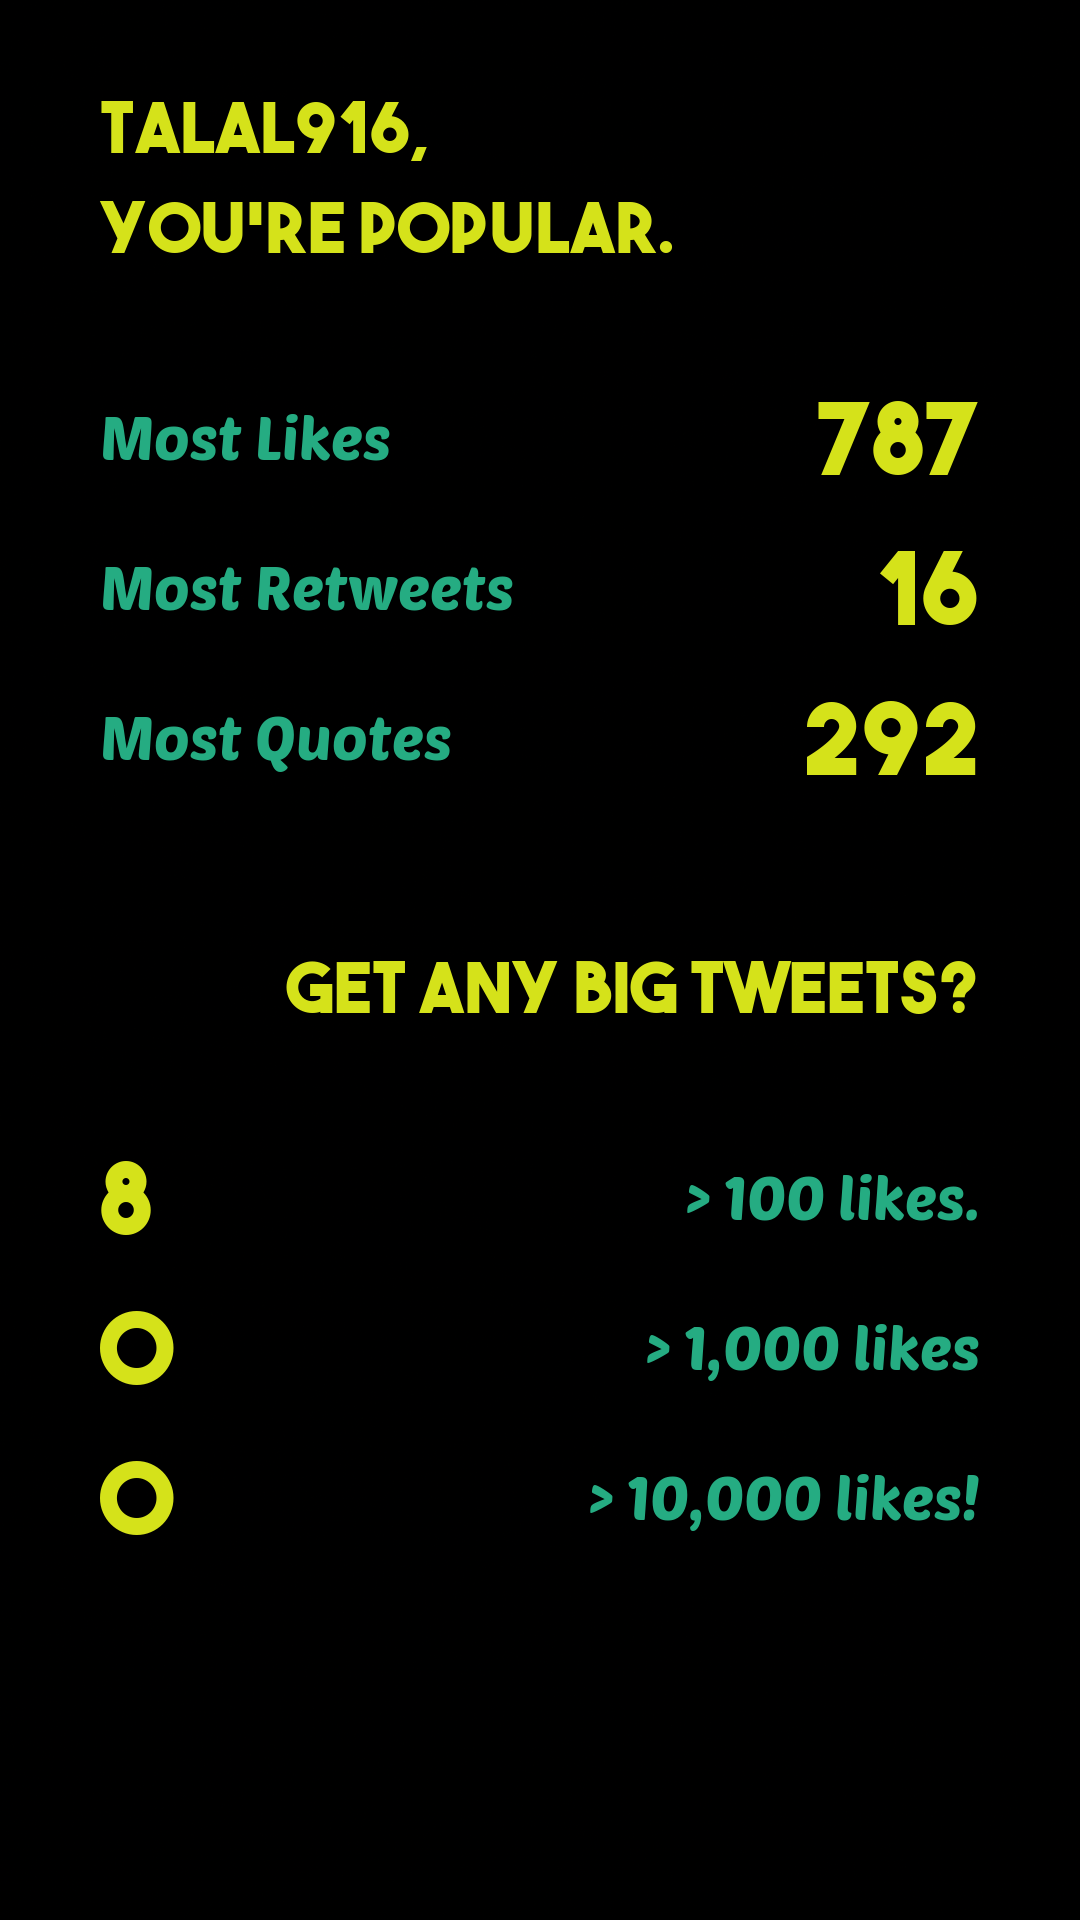
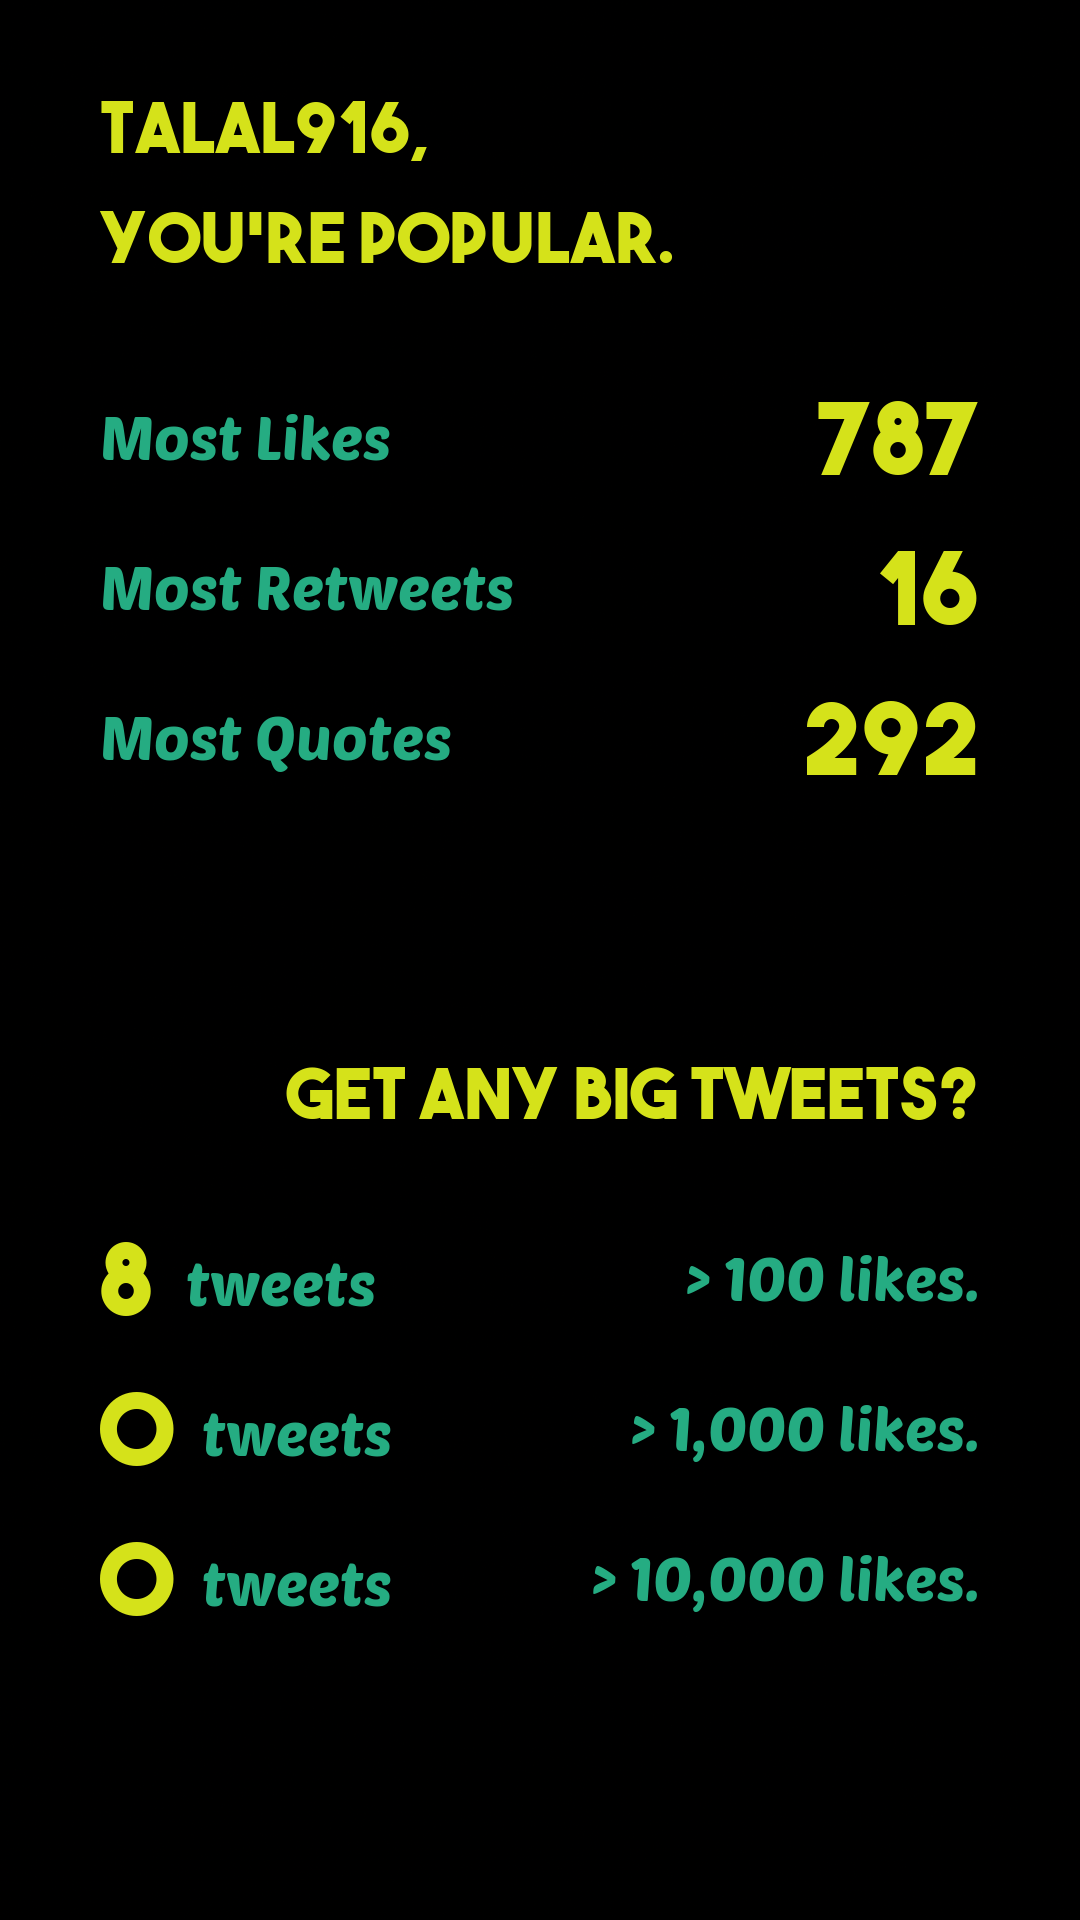
Add additional label

Changed region(s): [[0.2444, 0.5, 0.9167, 0.8438], [0.0917, 0.5938, 0.3667, 0.8438], [0.0917, 0.0938, 0.6417, 0.1562]]

diff --git a/tweepy_twitter.py b/tweepy_twitter.py
@@ -307,13 +307,14 @@ def generate_image_two(username,
     
     lp_title_text = ["Get Any Big Tweets?"] # LP = 'likes performance'
     
-    lp_text = ["> 100 likes.", "> 1,000 likes", "> 10,000 likes!"]
+    lp_text = [ "> 100 likes.", "> 1,000 likes.", "> 10,000 likes."]
     lp_values = [str(likes_performance[100]), str(likes_performance[1000]), str(likes_performance[10000])]
+    lp_values_additional_text = ["tweets"]
     #lp_values = [str(likes_performance[100]) + " Tweets", str(likes_performance[1000]) + " Tweets", str(likes_performance[10000]) + " Tweets"]
   
     # Draw title
     draw.text((x_pos, y_pos), title_text[0], font_colour["title"], font = font["title"])
-    draw.text((x_pos, y_pos + spacer), title_text[1], font_colour["title"], font = font["title"])
+    draw.text((x_pos, y_pos + spacer*1.1), title_text[1], font_colour["title"], font = font["title"])
     
     # Draw metric text
     draw.text((x_pos, y_pos + spacer*3), metrics_text[0], font_colour["text"], font = font["text"])
@@ -339,41 +340,43 @@ def generate_image_two(username,
     # Right align
     title_width, title_height = font["title"].getsize(lp_title_text[0])
     temp_x_pos = image_width - x_pos - title_width
-    
-    # Draw title
-    draw.text((temp_x_pos, image_height/2), lp_title_text[0], font_colour["title"], font = font["title"])
-    
+        
     # Width to right align
     txt_width_0, txt_height_0 = font["text"].getsize(lp_text[0])
     txt_width_1, txt_height_1 = font["text"].getsize(lp_text[1])
     txt_width_2, txt_height_2 = font["text"].getsize(lp_text[2])
     
     # Move base-level y-pos down
-    y_pos = image_height/2
+    y_pos = image_height/1.8
+    
+    # Draw title
+    draw.text((temp_x_pos, y_pos), lp_title_text[0], font_colour["title"], font = font["title"])
     
     # Draw lp text
     temp_x_pos = image_width - x_pos - txt_width_0
-    draw.text((temp_x_pos, y_pos + spacer*2), lp_text[0], font_colour["text"], font = font["text"])
+    draw.text((temp_x_pos, y_pos + spacer*1.75), lp_text[0], font_colour["text"], font = font["text"])
     
     temp_x_pos = image_width - x_pos - txt_width_1
-    draw.text((temp_x_pos, y_pos + spacer*3.5), lp_text[1], font_colour["text"], font = font["text"])
+    draw.text((temp_x_pos, y_pos + spacer*3.25), lp_text[1], font_colour["text"], font = font["text"])
     
     temp_x_pos = image_width - x_pos - txt_width_2
-    draw.text((temp_x_pos, y_pos + spacer*5), lp_text[2], font_colour["text"], font = font["text"])
+    draw.text((temp_x_pos, y_pos + spacer*4.75), lp_text[2], font_colour["text"], font = font["text"])
     
     # Draw lp values
-    draw.text((x_pos, y_pos + spacer*2), lp_values[0], font_colour["number"], font = font["number"])
-    draw.text((x_pos, y_pos + spacer*3.5), lp_values[1], font_colour["number"], font = font["number"])
-    draw.text((x_pos, y_pos + spacer*5), lp_values[2], font_colour["number"], font = font["number"])
+    draw.text((x_pos, y_pos + spacer*1.75), lp_values[0], font_colour["number"], font = font["number"])
+    draw.text((x_pos, y_pos + spacer*3.25), lp_values[1], font_colour["number"], font = font["number"])
+    draw.text((x_pos, y_pos + spacer*4.75), lp_values[2], font_colour["number"], font = font["number"])
+    
+    # Draw additional text 'twitter' next to lp values
+    value_width_1 = font["title"].getsize(lp_values[0])[0]
+    value_width_2 = font["title"].getsize(lp_values[1])[0]
+    value_width_3 = font["title"].getsize(lp_values[2])[0]
+    draw.text((value_width_1 + x_pos + 50, y_pos + spacer*1.8), lp_values_additional_text[0], font_colour["text"], font = font["text"])
+    draw.text((value_width_2 + x_pos + 50, y_pos + spacer*3.3), lp_values_additional_text[0], font_colour["text"], font = font["text"])
+    draw.text((value_width_3 + x_pos + 50, y_pos + spacer*4.8), lp_values_additional_text[0], font_colour["text"], font = font["text"])
     
     # Save image
     img.save("img/outputs/highest_metrics/" + username + ".png")
-    
-    
-    
-    
-    
-    
     
     
 def main(username):
@@ -405,8 +408,8 @@ def main(username):
     #print('created_at ', np.max(df['created_at']))
 
     # Generate sentiment image
-    sentiment = np.average(df['sentiment']) * 100
-    sentiment_image(username, sentiment)
+    #sentiment = np.average(df['sentiment']) * 100
+    #sentiment_image(username, sentiment)
     
     # Generate metrics image
     most_likes = np.max(df['like_count'])
@@ -435,13 +438,11 @@ def main(username):
 if __name__ == "__main__":
     #main(sys.argv[1])
     
+    generate_image_one("FinessTV", 6.0)
+    
     generate_image_two("Talal916",787,16,292,{
         100: 8,
         1000: 0,
         10000: 0
     })
     
-    generate_image_one("FinessTV", 6.0)
-    
-    #sentiment = np.average(df['sentiment']) * 100
-    #sentiment_image("FinessTV", sentiment)
